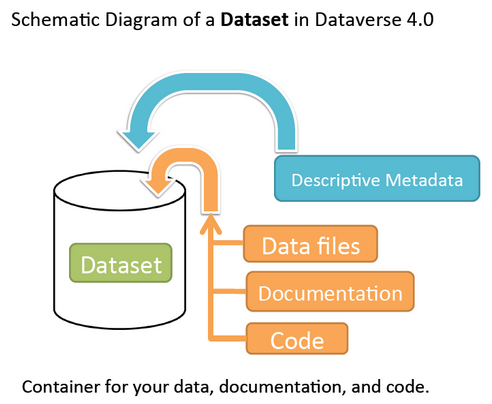
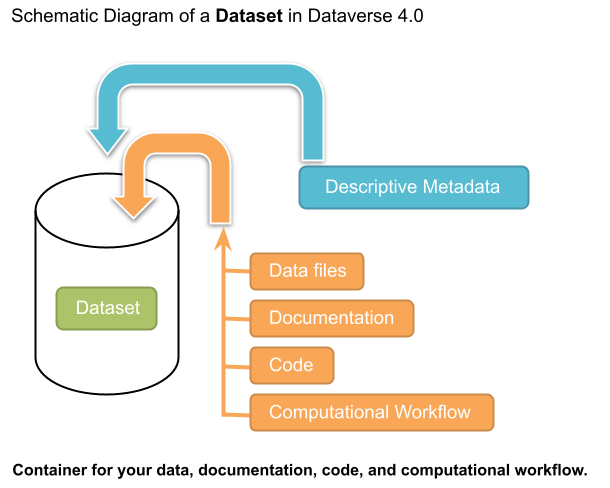
Added Computational Workflow metadata and related documentation

diff --git a/src/main/java/edu/harvard/iq/dataverse/ControlledVocabularyValue.java b/src/main/java/edu/harvard/iq/dataverse/ControlledVocabularyValue.java
@@ -148,7 +148,7 @@ public class ControlledVocabularyValue implements Serializable  {
                 return sendDefault ? strValue : null;
             }
         } catch (MissingResourceException | NullPointerException e) {
-            logger.warning("Error finding" + "controlledvocabulary." + fieldTypeName + "." + key + " in " + ((locale==null)? "defaultLang" : locale.getLanguage()) + " : " + e.getLocalizedMessage());
+            logger.warning("Error finding " + "controlledvocabulary." + fieldTypeName + "." + key + " in " + ((locale==null)? "defaultLang" : locale.getLanguage()) + " : " + e.getLocalizedMessage());
             return sendDefault ? strValue : null;
         }
     }

diff --git a/doc/sphinx-guides/source/user/dataset-management.rst b/doc/sphinx-guides/source/user/dataset-management.rst
@@ -38,6 +38,8 @@ Once a dataset has been published, its metadata can be exported in a variety of 
 
 Each of these metadata exports contains the metadata of the most recently published version of the dataset.
 
+.. _adding-new-dataset:
+
 Adding a New Dataset
 ====================
 
@@ -61,6 +63,8 @@ Supported HTML Fields
 We currently only support the following HTML tags for any of our textbox metadata fields (i.e., Description) : <a>, <b>, <blockquote>, 
 <br>, <code>, <del>, <dd>, <dl>, <dt>, <em>, <hr>, <h1>-<h3>, <i>, <img>, <kbd>, <li>, <ol>, <p>, <pre>, <s>, <sup>, <sub>, 
 <strong>, <strike>, <u>, <ul>.
+
+.. _dataset-file-upload:
 
 File Upload
 ===========
@@ -153,6 +157,19 @@ Beginning with Dataverse Software 5.0, the way a Dataverse installation handles 
 - If a user attempts to replace a file with another file that has the same checksum, an error message will be displayed and the file will not be able to be replaced.
 - If a user attempts to replace a file with a file that has the same checksum as a different file in the dataset, a warning will be displayed.
 
+BagIt Support
+-------------
+
+BagIt is a set of hierarchical file system conventions designed to support disk-based storage and network transfer of arbitrary digital content. It offers several benefits such as integration with digital libraries, easy implementation, and transfer validation. See `the Wikipedia article <https://en.wikipedia.org/wiki/BagIt>`__ for more information.
+
+If the repository you are using has enabled BagIt file handling, when uploading BagIt files the repository will validate the checksum values listed in each BagIt’s manifest file against the uploaded files and generate errors about any mismatches. The repository will identify a certain number of errors, such as the first five errors in each BagIt file, before reporting the errors.
+
+|bagit-image1|
+
+You can fix the errors and reupload the BagIt files.
+
+For information on how to enable and configure the BagIt file handler see the :ref:`installation guide <BagIt File Handler>`
+
 .. _file-handling:
 
 File Handling
@@ -210,6 +227,67 @@ Finally, automating your code can be immensely helpful to the code and research 
 - Consider using research workflow tools to automate your analysis. A popular workflow tool is called Common Workflow Language, and you can find more information about it `from the Common Workflow Language User Guide <https://www.commonwl.org/user_guide/>`_.
 
 **Note:** Capturing code dependencies and automating your code will create new files in your directory. Make sure to include them when depositing your dataset.
+
+Computational Workflow
+----------------------
+
+Computational Workflow Definition
+~~~~~~~~~~~~~~~~~~~~~~~~~~~~~~~~~
+
+Computational workflows precisely describe a multi-step process to coordinate multiple computational tasks and their data dependencies that lead to data products in a scientific application. The computational tasks take different forms, such as running code (e.g. Python, C++, MATLAB, R, Julia), invoking a service, calling a command-line tool, accessing a database (e.g. SQL, NoSQL), submitting a job to a compute cloud (e.g. on-premises cloud, AWS, GCP, Azure), and execution of data processing scripts or workflow. The following diagram shows an example of a computational workflow with multiple computational tasks.
+
+|cw-image1|
+
+FAIR Computational Workflow
+~~~~~~~~~~~~~~~~~~~~~~~~~~~
+
+FAIR principles (Findable, Accessible, Interoperable, Reusable) also apply to computational workflows. The FAIR Principles (https://doi.org/10.1162/dint_a_00033) apply to workflows in two areas as FAIR data and FAIR criteria for workflows as digital objects. In the FAIR data area, "*properly designed workflows contribute to FAIR data principles since they provide the metadata and provenance necessary to describe their data products, and they describe the involved data in a formalized, completely traceable way*" (https://doi.org/10.1162/dint_a_00033). Regarding the FAIR criteria for workflows as digital objects, "*workflows are research products in their own right, encapsulating methodological know-how that is to be found and published, accessed and cited, exchanged and combined with others, and reused as well as adapted*" (https://doi.org/10.1162/dint_a_00033).
+
+How to Create a Computational Workflow
+~~~~~~~~~~~~~~~~~~~~~~~~~~~~~~~~~~~~~~
+
+There are multiple approaches to creating computational workflows. You may consider standard frameworks and tools such as Common Workflow Language (CWL), Snakemake, Galaxy, Nextflow, Ruffus or *ad hoc* methods using different programming languages (e.g. Python, C++, MATLAB, Julia, R), notebooks (e.g. Jupyter Notebook, R Notebook, and MATLAB Live Script) and command-line interpreters (e.g. Bash). Each computational task is defined differently, but all meet the definition of a computational workflow and all result in data products. You can find a few examples of computational workflows in the following GitHub repositories, where each follows several aspects of FAIR principles:
+
+- Common Workflow Language (`GitHub Repository URL <https://github.com/fasrc/epa_cwl_airflow>`__)
+- R Notebook (`GitHub Repository URL <https://github.com/fasrc/R_computational_workflow>`__)
+- Jupyter Notebook (`GitHub Repository URL <https://github.com/fasrc/python-computational-workflow>`__)
+- MATLAB Script (`GitHub Repository URL <https://github.com/fasrc/Matlab_computational_workflow>`__)
+
+You are encouraged to review these examples when creating a computational workflow and publishing in a Dataverse repository.
+
+At https://workflows.community, the Workflows Community Initiative offers resources for computational workflows, such as a list of workflow systems (https://workflows.community/systems) and other workflow registries (https://workflows.community/registries). The initiative also helps organize working groups related to workflows research, development and application.
+
+How to Upload your Computational Workflow
+~~~~~~~~~~~~~~~~~~~~~~~~~~~~~~~~~~~~~~~~~
+
+When you :ref:`add a new dataset <adding-new-dataset>`, the Dataverse repository you are using may provide additional support for describing computational workflows, including Computational Workflow Metadata fields for describing your workflow and a "Workflow" tag you can apply to your workflow files.
+
+|cw-image2|
+
+The three fields are adapted from `Bioschemas Computational Workflow Profile, version 1.0 <https://bioschemas.org/profiles/ComputationalWorkflow/1.0-RELEASE>`__ and `Codemeta <https://codemeta.github.io/terms/>`__:
+
+- **Workflow Type**: The kind of Computational Workflow, which is designed to compose and execute a series of computational or data manipulation steps in a scientific application
+- **External Code Repository URL**: A link to another public repository where the un-compiled, human-readable code and related code is also located (e.g., SVN, GitHub, GitLab, CodePlex)
+- **Documentation**: A link (URL) to the documentation or text describing the Computational Workflow and its use
+
+After you :ref:`upload your files <dataset-file-upload>`, you can apply a "Workflow" tag to your workflow files, such as your Snakemake or R Notebooks files, so that you and others can find them more easily among your deposit’s other files.
+
+|cw-image3|
+
+|cw-image4|
+
+How to Search for Computational Workflows
+~~~~~~~~~~~~~~~~~~~~~~~~~~~~~~~~~~~~~~~~~
+
+If the search page of the Dataverse repository you are using includes a "Dataset Feature" facet with a Computational Workflows link, you can follow that link to find only datasets that contain computational workflows.
+
+You can also use the "Workflow Type" facet, if the Dataverse repository uses it, to find datasets that contain certain types of computational workflows, such as workflows written in Common Workflow Language files or Jupyter Notebooks.
+
+|cw-image5|
+
+You can also search for files within datasets that have been tagged as "Workflow" files by clicking the Files checkbox to show only files and using the File Tag facet to show only files tagged as "Workflow".
+
+|cw-image6|
 
 Astronomy (FITS)
 ----------------
@@ -621,6 +699,20 @@ If you deaccession the most recently published version of the dataset but not al
 .. |file-upload-prov-window| image:: ./img/prov1.png
    :class: img-responsive
 .. |image-file-tree-view| image:: ./img/file-tree-view.png
+   :class: img-responsive
+.. |cw-image1| image:: ./img/computational-workflow-diagram.png
+   :class: img-responsive
+.. |cw-image2| image:: ./img/computational-workflow-metadata.png
+   :class: img-responsive
+.. |cw-image3| image:: ./img/file-tags-link.png
+   :class: img-responsive
+.. |cw-image4| image:: ./img/file-tags-options.png
+   :class: img-responsive
+.. |cw-image5| image:: ./img/computational-workflow-facets.png
+   :class: img-responsive
+.. |cw-image6| image:: ./img/file-tags-facets.png
+   :class: img-responsive
+.. |bagit-image1| image:: ./img/bagit-handler-errors.png
    :class: img-responsive
    
 .. _Make Data Count: https://makedatacount.org

diff --git a/doc/sphinx-guides/source/user/appendix.rst b/doc/sphinx-guides/source/user/appendix.rst
@@ -26,5 +26,6 @@ Detailed below are what metadata schemas we support for Citation and Domain Spec
   `Virtual Observatory (VO) Discovery and Provenance Metadata <http://perma.cc/H5ZJ-4KKY>`__ (`see .tsv version <https://github.com/IQSS/dataverse/blob/master/scripts/api/data/metadatablocks/astrophysics.tsv>`__).
 - `Life Sciences Metadata <https://docs.google.com/spreadsheet/ccc?key=0AjeLxEN77UZodHFEWGpoa19ia3pldEFyVFR0aFVGa0E#gid=2>`__: based on `ISA-Tab Specification <https://isa-specs.readthedocs.io/en/latest/isamodel.html>`__, along with controlled vocabulary from subsets of the `OBI Ontology <http://bioportal.bioontology.org/ontologies/OBI>`__ and the `NCBI Taxonomy for Organisms <http://www.ncbi.nlm.nih.gov/Taxonomy/taxonomyhome.html/>`__ (`see .tsv version <https://github.com/IQSS/dataverse/blob/master/scripts/api/data/metadatablocks/biomedical.tsv>`__).
 - `Journal Metadata <https://docs.google.com/spreadsheets/d/13HP-jI_cwLDHBetn9UKTREPJ_F4iHdAvhjmlvmYdSSw/edit#gid=8>`__: based on the `Journal Archiving and Interchange Tag Set, version 1.2 <https://jats.nlm.nih.gov/archiving/tag-library/1.2/chapter/how-to-read.html>`__ (`see .tsv version <https://github.com/IQSS/dataverse/blob/master/scripts/api/data/metadatablocks/journals.tsv>`__).
+- `Computational Workflow Metadata <https://docs.google.com/spreadsheets/d/13HP-jI_cwLDHBetn9UKTREPJ_F4iHdAvhjmlvmYdSSw/edit#gid=447508596>`__: adapted from `Bioschemas Computational Workflow Profile, version 1.0 <https://bioschemas.org/profiles/ComputationalWorkflow/1.0-RELEASE>`__ and `Codemeta <https://codemeta.github.io/terms/>`__ (`see .tsv version <https://github.com/IQSS/dataverse/blob/master/scripts/api/data/metadatablocks/computationalworkflow.tsv>`__).
 
 See also the `Dataverse Software 4.0 Metadata Crosswalk: DDI, DataCite, DC, DCTerms, VO, ISA-Tab <https://docs.google.com/spreadsheets/d/10Luzti7svVTVKTA-px27oq3RxCUM-QbiTkm8iMd5C54/edit?usp=sharing>`__ document and the :doc:`/admin/metadatacustomization` section of the Admin Guide.

diff --git a/doc/release-notes/8639-computational-workflow.md b/doc/release-notes/8639-computational-workflow.md
@@ -1,0 +1,6 @@
+## Adding Computational Workflow Metadata
+The new Computational Workflow metadata block will allow depositors to effectively tag datasets as computational workflows.
+
+To add the new metadata block, follow the instructions in the user guide: <https://guides.dataverse.org/en/latest/admin/metadatacustomization.html>
+
+The location of the new metadata block tsv file is: `dataverse/scripts/api/data/metadatablocks/computational_workflow.tsv`
